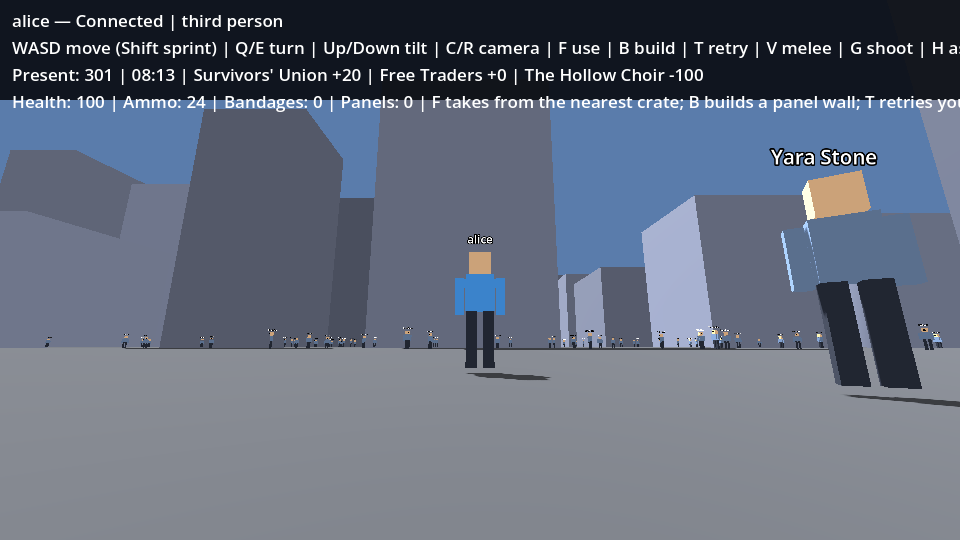
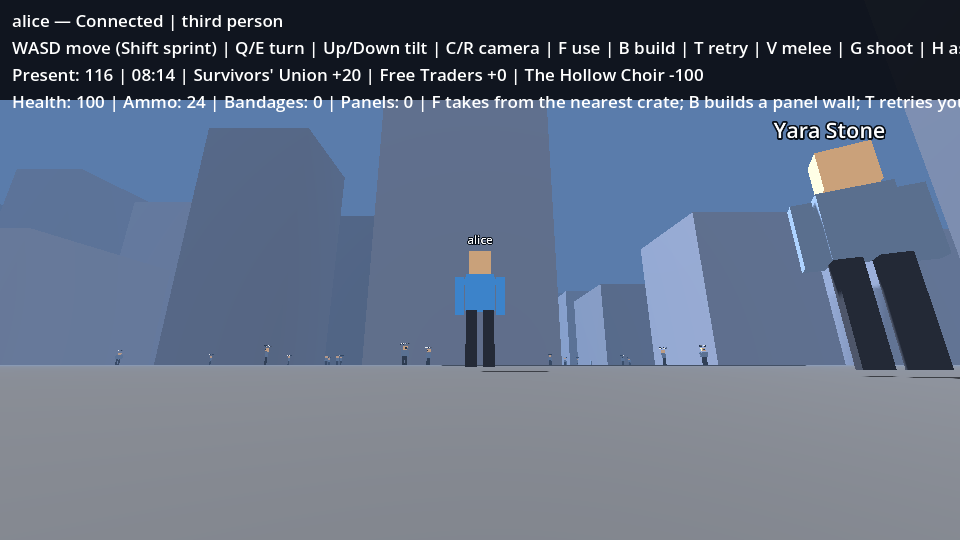
Fix ground flicker for good; crowd placeholders for background people (F17)
Ground is drawn per streamed chunk only, with distance fog hiding the edge: no
overlapping planes left to z-fight (a single 40 km quad also lost depth precision).
Each second the server sends players their nearest 1,500 background agents within
200 m; clients draw them as simple figures. Full local suite green (124 checks).

diff --git a/src/QuestSim.Game/RoomView.cs b/src/QuestSim.Game/RoomView.cs
@@ -32,11 +32,12 @@ public partial class RoomView : Node3D
         environment = new Godot.Environment
         {
             BackgroundMode = Godot.Environment.BGMode.Color, BackgroundColor = new Color(.12f, .17f, .23f),
-            AmbientLightSource = Godot.Environment.AmbientSource.Color, AmbientLightColor = Colors.White, AmbientLightEnergy = .65f
+            AmbientLightSource = Godot.Environment.AmbientSource.Color, AmbientLightColor = Colors.White, AmbientLightEnergy = .65f,
+            FogEnabled = true, FogDensity = .004f, FogLightColor = new Color(.45f, .62f, .85f)
         };
         AddChild(new WorldEnvironment { Environment = environment });
         AddChild(sun);
-        AddChild(camera); camera.Current = true; camera.Fov = 75; camera.Near = .1f; camera.Far = 2500;
+        AddChild(camera); camera.Current = true; camera.Fov = 75; camera.Near = .1f; camera.Far = 1500;
         camera.Position = new Vector3(-8, 6, 0); camera.LookAt(new Vector3(0, 1, 0));
         var layer = new CanvasLayer(); AddChild(layer);
         layer.AddChild(hudBack);
@@ -50,15 +51,13 @@ public partial class RoomView : Node3D
     }
     private void BuildRoom(WorldSnapshot state)
     {
-        Box(this, new Vector3(0, -.1f, 0), new Vector3(12, .2f, 12), new Color(.25f, .28f, .3f));
+        Box(this, new Vector3(0, -.08f, 0), new Vector3(12, .2f, 12), new Color(.25f, .28f, .3f));   // floor top 2 cm above the city ground
         city = new CityGen(state.WorldSeed);
-        var ground = new MeshInstance3D { Mesh = new PlaneMesh { Size = new Vector2(CityGen.Half * 2, CityGen.Half * 2) }, Position = new Vector3(0, -.3f, 0),   // well below chunk ground: no z-fighting at a distance
-            MaterialOverride = new StandardMaterial3D { AlbedoColor = new Color(.35f, .5f, .25f), Roughness = 1 } };
-        AddChild(ground);
+        // Ground is drawn per streamed chunk only (no overlapping layers to z-fight); fog hides the streaming edge.
         foreach (var road in city.Roads)
         {
             var from = new Vector3(road.X1, 0, road.Z1); var to = new Vector3(road.X2, 0, road.Z2);
-            var strip = Box(this, (from + to) / 2 + new Vector3(0, -.06f, 0), new Vector3(CityGen.RoadHalfWidth * 2, .12f, from.DistanceTo(to)), new Color(.2f, .2f, .22f));
+            var strip = Box(this, (from + to) / 2 + new Vector3(0, -.01f, 0), new Vector3(CityGen.RoadHalfWidth * 2, .12f, from.DistanceTo(to)), new Color(.2f, .2f, .22f));
             strip.Rotation = new Vector3(0, Mathf.Atan2(to.X - from.X, to.Z - from.Z), 0);
         }
         var site = WorldSave.BuildSite; // Floor marker for the one build cell.
@@ -90,12 +89,13 @@ public partial class RoomView : Node3D
         AddChild(node);
         int x0 = cx * CityGen.ChunkSize, z0 = cz * CityGen.ChunkSize, half = CityGen.ChunkSize / 2;
         var biome = city!.BiomeAt(x0 + half, z0 + half);
-        if (biome != Biome.Field)
+        var colour = biome switch
         {
-            var colour = biome switch { Biome.Urban => new Color(.3f, .31f, .33f), Biome.Town => new Color(.42f, .4f, .35f), _ => new Color(.17f, .33f, .17f) };
-            node.AddChild(new MeshInstance3D { Mesh = new PlaneMesh { Size = new Vector2(CityGen.ChunkSize, CityGen.ChunkSize) }, Position = new Vector3(x0 + half, -.02f, z0 + half),
-                MaterialOverride = new StandardMaterial3D { AlbedoColor = colour, Roughness = 1 } });
-        }
+            Biome.Urban => new Color(.3f, .31f, .33f), Biome.Town => new Color(.42f, .4f, .35f),
+            Biome.Forest => new Color(.17f, .33f, .17f), _ => new Color(.35f, .5f, .25f)
+        };
+        node.AddChild(new MeshInstance3D { Mesh = new PlaneMesh { Size = new Vector2(CityGen.ChunkSize, CityGen.ChunkSize) }, Position = new Vector3(x0 + half, 0, z0 + half),
+            MaterialOverride = new StandardMaterial3D { AlbedoColor = colour, Roughness = 1 } });
         var buildings = city.Chunk(cx, cz);
         if (buildings.Length == 0) return node;
         var multi = new MultiMesh { TransformFormat = MultiMesh.TransformFormatEnum.Transform3D, UseColors = true, Mesh = new BoxMesh { Size = Vector3.One } };
@@ -138,11 +138,52 @@ public partial class RoomView : Node3D
         sun.LightEnergy = .15f + .85f * daylight;
         sun.RotationDegrees = new Vector3(-10 - 60 * daylight, (float)(hour / 24 * 360), 0);
         environment!.BackgroundColor = new Color(.02f, .03f, .06f).Lerp(new Color(.45f, .62f, .85f), daylight);
+        environment.FogLightColor = environment.BackgroundColor;
         environment.AmbientLightEnergy = .25f + .45f * daylight;
         clock = $"{(int)hour:00}:{(int)(hour % 1 * 60):00}";
     }
 
     private string clock = "";
+    // Crowd placeholders: one batched mesh; figures glide toward their latest positions and hide when a real NPC shows them.
+    private MultiMeshInstance3D? crowd;
+    private CrowdWire.Figure[] crowdFigures = [];
+    private readonly Dictionary<uint, Vector3> crowdShown = new();
+
+    public void UpdateCrowd(CrowdWire.Figure[] figures)
+    {
+        crowdFigures = figures;
+        if (crowd is null)
+        {
+            crowd = new MultiMeshInstance3D
+            {
+                Multimesh = new MultiMesh { TransformFormat = MultiMesh.TransformFormatEnum.Transform3D, UseColors = true, Mesh = new BoxMesh { Size = new Vector3(.45f, 1.7f, .3f) } },
+                MaterialOverride = new StandardMaterial3D { VertexColorUseAsAlbedo = true, VertexColorIsSrgb = true, Roughness = 1 }
+            };
+            AddChild(crowd);
+        }
+        var keep = figures.Select(f => f.Index).ToHashSet();
+        foreach (var gone in crowdShown.Keys.Where(k => !keep.Contains(k)).ToArray()) crowdShown.Remove(gone);
+    }
+
+    private void DrawCrowd(double delta)
+    {
+        if (crowd is null) return;
+        var visible = actors.Keys.Where(k => k.StartsWith("npc:")).Select(k => uint.Parse(k.AsSpan(4))).ToHashSet();
+        var shown = crowdFigures.Where(f => !visible.Contains(f.Index)).ToArray();
+        var multi = crowd.Multimesh;
+        multi.InstanceCount = shown.Length;
+        float blend = 1 - Mathf.Exp(-3 * (float)delta);
+        for (int i = 0; i < shown.Length; i++)
+        {
+            var f = shown[i];
+            var target = new Vector3((float)f.X, .85f, (float)f.Z);
+            var at = crowdShown.TryGetValue(f.Index, out var p) ? p.Lerp(target, blend) : target;
+            crowdShown[f.Index] = at;
+            multi.SetInstanceTransform(i, new Transform3D(Basis.Identity, at));
+            multi.SetInstanceColor(i, f.Zombie ? new Color(.35f, .45f, .32f) : f.Faction switch
+                { 0 => new Color(.42f, .5f, .62f), 1 => new Color(.62f, .55f, .38f), _ => new Color(.5f, .15f, .17f) });
+        }
+    }
     private readonly Dictionary<int, Node3D> caches = new();
     private static string Condition(WorldSnapshot? state, string ownId) =>
         state?.Actors.FirstOrDefault(a => a.Id == ownId)?.Condition is { Length: > 0 } c ? $" ({c})" : "";
@@ -205,6 +246,7 @@ public partial class RoomView : Node3D
         if ((inspectorSeconds -= delta) <= 0) inspector.Visible = false;
         if (state is null) return;
         ApplyTimeOfDay(state.Tick);
+        DrawCrowd(delta);
         if (!roomBuilt) BuildRoom(state);
         UpdateCaches(state);
         // Blocks only appear (no demolition yet); draw any the server added since the last snapshot.

diff --git a/src/QuestSim.Game/Session.cs b/src/QuestSim.Game/Session.cs
@@ -12,7 +12,8 @@ public partial class Session : Node
     private RoomView? view;
     private WorldSnapshot? snapshot, world;
     private readonly Dictionary<long, string> sentWorld = new();
-    private long worldBytes, actorPacketBytes;
+    private long worldBytes, actorPacketBytes, sentCrowdVersion, crowdBytes;
+    private int crowdCount;
     private CharacterRecord? own;
     private string profileId = "", profileName = "", savePath = "", statusPath = "", intentPath = "", shutdownPath = "";
     private string connection = "Connecting";
@@ -236,6 +237,16 @@ public partial class Session : Node
         world = received;
         worldBytes += json.Length;
         if (snapshot is not null) snapshot = world with { Actors = snapshot.Actors, Sequence = snapshot.Sequence, Tick = snapshot.Tick };
+    }
+
+    // Crowd placeholders: background people near you, about once per second, purely visual.
+    [Rpc(TransferMode = MultiplayerPeer.TransferModeEnum.UnreliableOrdered, TransferChannel = 4)]
+    public void ReceiveCrowd(byte[] data)
+    {
+        if (server) return;
+        var figures = CrowdWire.Decode(data);
+        crowdCount = figures.Length; crowdBytes = data.Length;
+        view?.UpdateCrowd(figures);
     }
 
     // Actors: compact binary at 10 Hz, unreliable ordered; stale packets are dropped by sequence.
@@ -547,6 +558,11 @@ public partial class Session : Node
             RpcId(peer, nameof(ReceiveActors), Wire.EncodeActors(view.Sequence, view.Tick, view.Actors,
                 i => authority.State.Named.Any(n => n.Index == i && n.Title.Length > 0)));
         }
+        if (authority.CrowdVersion != sentCrowdVersion)
+        {
+            sentCrowdVersion = authority.CrowdVersion;
+            foreach (var (peer, packet) in authority.CrowdPackets) RpcId(peer, nameof(ReceiveCrowd), packet);
+        }
     }
     private void OnPeerLeft(long peer)
     {
@@ -690,7 +706,7 @@ public partial class Session : Node
             characters = authority?.State.Characters, receipts = authority?.State.Receipts, buildReceipts = authority?.State.BuildReceipts, lastPickup, lastBuild, lastAttack, lastInteract, lastAsk, lastInspect,
             opportunities = authority?.State.Opportunities, facts = authority?.State.Facts.Count,
             npcs = authority?.Npcs.Count, populationLagged = authority?.PopulationLagged, agentDeltas = authority?.State.AgentDeltas.Count,
-            actorPacketBytes, worldBytes, populationLoad = authority?.PopulationLoad, populationTick = authority?.Pop?.Tick, populationFile = authority?.State.PopulationFile, itemMessage, fps = Engine.GetFramesPerSecond(),
+            actorPacketBytes, worldBytes, crowdCount, crowdBytes, populationLoad = authority?.PopulationLoad, populationTick = authority?.Pop?.Tick, populationFile = authority?.State.PopulationFile, itemMessage, fps = Engine.GetFramesPerSecond(),
             rssBytes = System.Diagnostics.Process.GetCurrentProcess().WorkingSet64
         }));
     }

diff --git a/src/QuestSim.Domain/Living.cs b/src/QuestSim.Domain/Living.cs
@@ -25,6 +25,12 @@ public sealed partial class WorldAuthority
     public IReadOnlyDictionary<uint, Npc> Npcs => npcs;
     public long PopulationLagged { get; private set; }
     public Action<CharacterRecord, Npc>? Downed;
+    public const double CrowdRadius = 200;
+    public const int CrowdLimit = 1500;
+    // Latest crowd placeholder packet per peer, built between coarse ticks; CrowdVersion changes when they refresh.
+    public Dictionary<int, byte[]> CrowdPackets { get; } = new();
+    public long CrowdVersion { get; private set; }
+
     // Nobody is promoted within this distance of a player, so new NPCs never pop in at arm's length.
     public double PromotionClearance { get; set; } = 20;
 
@@ -50,6 +56,7 @@ public sealed partial class WorldAuthority
         ReportLosses();
         ApplyPossessions();
         SyncTiers();
+        BuildCrowds();
         PrepareRumors();
         if (PopulationSaveRequested) CapturePopulation();
         var rumors = RumorInput();
@@ -94,6 +101,20 @@ public sealed partial class WorldAuthority
                 };
                 pop.Info[i] |= Population.Detailed;
             }
+    }
+
+    void BuildCrowds()
+    {
+        var pop = Pop!;
+        CrowdPackets.Clear();
+        foreach (var (peer, c) in active)
+        {
+            var figures = pop.Near(c.X, c.Z, CrowdRadius).Where(i => (pop.Info[i] & Population.Detailed) == 0)
+                .Select(i => new CrowdWire.Figure(i, Population.ToMetres(pop.PosX[i]), Population.ToMetres(pop.PosZ[i]), Population.IsZombie(pop.Info[i]), Population.FactionOf(pop.Info[i])))
+                .OrderBy(f => (f.X - c.X) * (f.X - c.X) + (f.Z - c.Z) * (f.Z - c.Z)).ThenBy(f => f.Index).Take(CrowdLimit).ToArray();
+            CrowdPackets[peer] = CrowdWire.Encode(c.X, c.Z, figures);
+        }
+        CrowdVersion++;
     }
 
     bool FindWalkable(ref double x, ref double z)

diff --git a/src/QuestSim.Domain/Wire.cs b/src/QuestSim.Domain/Wire.cs
@@ -59,3 +59,41 @@ public static class Wire
         return (sequence, tick, actors);
     }
 }
+
+// Background crowd: nearby coarse agents as placeholders (no interaction), sent about once per second.
+public static class CrowdWire
+{
+    public sealed record Figure(uint Index, double X, double Z, bool Zombie, int Faction);
+
+    public static byte[] Encode(double viewerX, double viewerZ, IReadOnlyList<Figure> figures)
+    {
+        using var buffer = new MemoryStream();
+        using var w = new BinaryWriter(buffer);
+        w.Write((byte)1); w.Write(viewerX); w.Write(viewerZ); w.Write((ushort)figures.Count);
+        foreach (var f in figures)
+        {
+            w.Write(f.Index);
+            w.Write((short)Math.Clamp(Math.Round((f.X - viewerX) * 10), short.MinValue, short.MaxValue));
+            w.Write((short)Math.Clamp(Math.Round((f.Z - viewerZ) * 10), short.MinValue, short.MaxValue));
+            w.Write((byte)((f.Zombie ? 0x80 : 0) | (f.Faction & 0x0F)));
+        }
+        w.Flush();
+        return buffer.ToArray();
+    }
+
+    public static Figure[] Decode(byte[] data)
+    {
+        using var r = new BinaryReader(new MemoryStream(data));
+        if (r.ReadByte() != 1) throw new InvalidDataException("Unknown crowd packet version");
+        double x = r.ReadDouble(), z = r.ReadDouble();
+        var figures = new Figure[r.ReadUInt16()];
+        for (int i = 0; i < figures.Length; i++)
+        {
+            uint index = r.ReadUInt32();
+            double fx = x + r.ReadInt16() / 10.0, fz = z + r.ReadInt16() / 10.0;
+            byte kind = r.ReadByte();
+            figures[i] = new Figure(index, fx, fz, (kind & 0x80) != 0, kind & 0x0F);
+        }
+        return figures;
+    }
+}

diff --git a/checks/QuestSim.Checks/WireChecks.cs b/checks/QuestSim.Checks/WireChecks.cs
@@ -22,5 +22,10 @@ public static class WireChecks
                   p.First.Faction == p.Second.Faction && p.First.Health == p.Second.Health && Math.Abs(p.First.X - p.Second.X) < .01 && Math.Abs(p.First.Z - p.Second.Z) < .01) &&
               actors.Any(x => x.Name.EndsWith("the Butcher")),
             $"binary actor packets round-trip: players exact, NPCs within 1 cm, names regenerated from the seed, titles sent ({npcs} NPCs in {bytes.Length:N0} bytes, ~{(bytes.Length - 60.0) / npcs:F1} B/NPC)");
+        var crowd = CrowdWire.Decode(w.CrowdPackets[2]);
+        check(crowd.Length > 0 && crowd.All(f => !w.Npcs.ContainsKey(f.Index)) &&
+              crowd.All(f => Math.Sqrt((f.X - a.X) * (f.X - a.X) + (f.Z - a.Z) * (f.Z - a.Z)) <= WorldAuthority.CrowdRadius + .1) &&
+              crowd.All(f => Math.Abs(Population.ToMetres(w.Pop!.PosX[f.Index]) - f.X) < 1.5 && Population.IsZombie(w.Pop.Info[f.Index]) == f.Zombie),
+            $"crowd placeholders carry nearby background people only, never ones already in detail ({crowd.Length} figures in {w.CrowdPackets[2].Length:N0} bytes)");
     }
 }

diff --git a/scripts/verify_load.py b/scripts/verify_load.py
@@ -40,7 +40,9 @@ try:
               'detailedNpcs': status['npcs'], 'meanVisibleNpcs': round(sum(npc_counts) / len(npc_counts), 1),
               'meanActorPacketBytes': round(mean), 'meanActorsAsJsonBytes': round(sum(json_sizes) / len(json_sizes)),
               'worldJsonBytesPerSecond': round(world_rate), 'approxDownloadKiBps': round((mean * 10 + world_rate) / 1024, 1),
-              'serverRssMiB': round(status['rssBytes'] / 2**20)}
+              'serverRssMiB': round(status['rssBytes'] / 2**20),
+              'meanCrowdFigures': round(sum(f.status(l)['crowdCount'] for l in labels) / len(labels)),
+              'crowdBytesPerSecond': round(sum(f.status(l)['crowdBytes'] for l in labels) / len(labels))}
     print(json.dumps(result), flush=True)
     assert rate > 18 and status['populationLagged'] == 0, result
     print(f"PASS {PLAYERS} players and 1,000,000 agents: {rate:.1f} ticks/s, no population lag, {status['npcs']} detailed NPCs, "

diff --git a/questsim_planning_kit/BACKLOG.md b/questsim_planning_kit/BACKLOG.md
@@ -92,10 +92,12 @@ with F13 tooling and F14 platform/CI growing alongside from F2 onward.
   as zombies, survivors arrive at outlying towns, zombies migrate in from the map edges; rates
   are tunable and persisted.
 
-### F17 - NPC pop-in and crowd placeholders
-- Avoid promoting NPCs right next to players (nobody appears out of nowhere at arm's length).
-- Stretch: stream nearby background (coarse) agents to clients at ~1 Hz as cheap placeholder
-  figures, so crowds look populated beyond the detail budget.
+### F17 - NPC pop-in and crowd placeholders — done 2026-10-26
+- No promotions within 20 m of a player (applied after stepping out of buildings).
+- Crowd placeholders: each second the server sends every player the nearest 1,500 background
+  agents within 200 m (9 bytes each: ID, relative position, kind/faction; ~13 KB/s per player
+  measured with 8 players); clients draw them as simple figures that glide between updates
+  and hide when the same person is shown in detail.
 
 ### Not in v1.0
 Art beyond placeholders, content volume, deep combat, crafting trees, item rarity/affixes/loot tables, polished UI, more than 8 players, macOS, code mods (data-only for now; stay mindful of a later transition).

diff --git a/questsim_planning_kit/STATE.md b/questsim_planning_kit/STATE.md
@@ -43,5 +43,12 @@ interest management only), Godot exports and Windows *game* runs (only domain ch
 Windows), LAN/WAN (8-player loopback load done), item instances/rarity, code mods. verify_item_desktop/verify_shared_desktop/
 verify_terminal_shutdown (real desktop) not rerun.
 
-Next action: director reviews NIGHTLY_2026-10-26.md decisions, plays the nightly build, and
-decides whether to merge `nightly` into `main`.
+2026-10-26 (after the playtest, on main; nightly merged): ground flicker fixed (per-chunk
+ground only, fog at the streaming edge); no promotions within 20 m; coarse agents walk at
+real-time speed (48:1 applies to the clock); population recovery (dormant reserve, rising
+dead, arrivals); crowd placeholders; local-first `scripts/test_all.sh` (GitHub workflow
+manual-only). Full local suite green: 124 domain checks, all ENet suites, living, both Xvfb
+screens, E1 checks.
+
+Next action: director playtests again (flicker, pop-in, placeholders); then choose the next
+task, e.g. F15 extensive building, or Windows verification once the machine is reachable.
